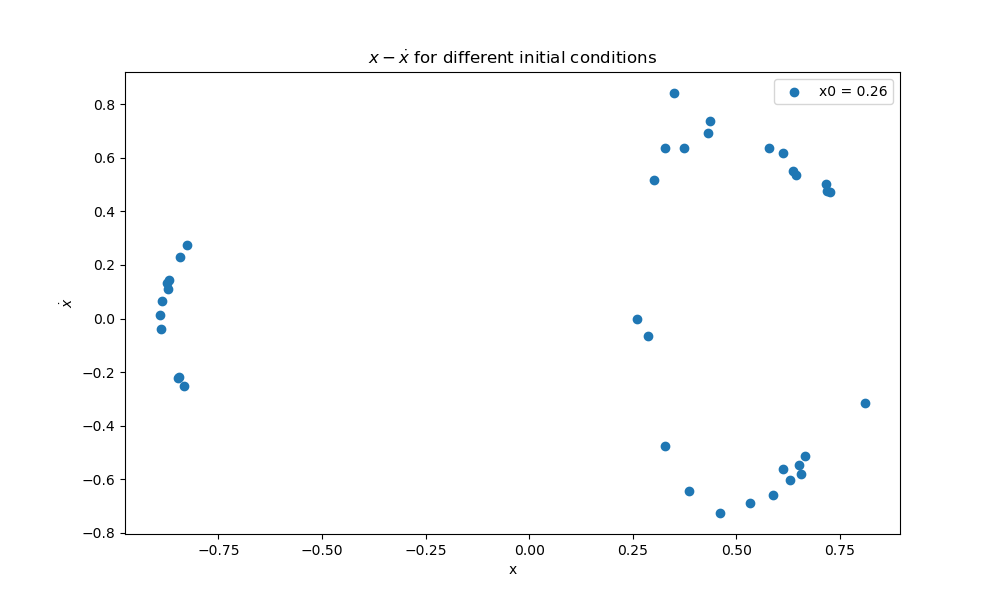
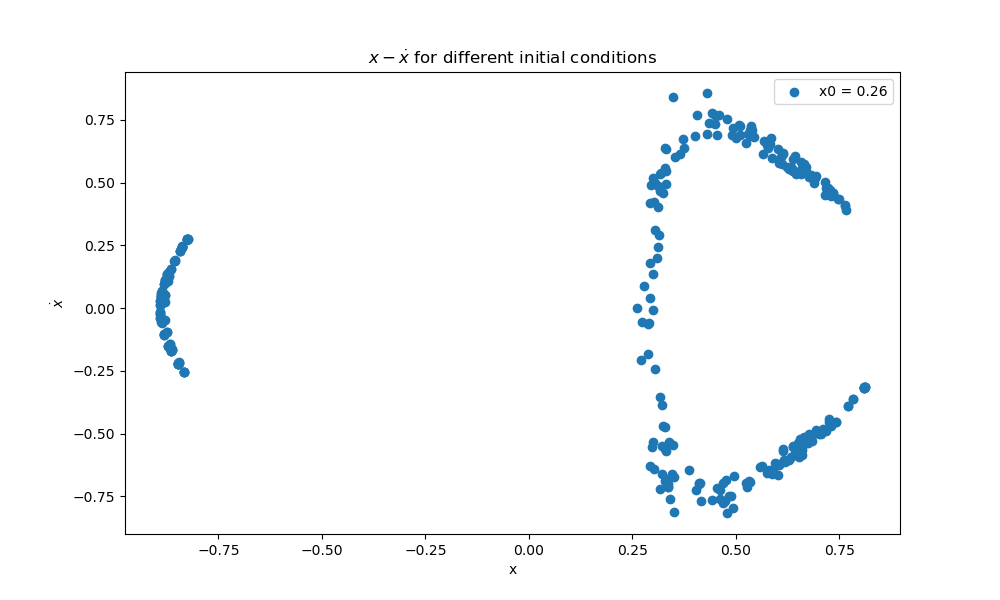
increased Poincaré precision

diff --git a/assignments_5_and_6/part_2/exercise_2/main.cpp b/assignments_5_and_6/part_2/exercise_2/main.cpp
@@ -88,7 +88,7 @@ int main(){
             }
 
             // Create Poincare section if y ~= 0, vy > 0
-            if (fabs(state[1]) < 1e-5 && state[3] > 0) {
+            if (fabs(state[1]) < 1e-4 && state[3] > 0.0) {
                 poincare << state[0] << "," << state[2] << endl; // output x, vx to Poincare file
             }
 
